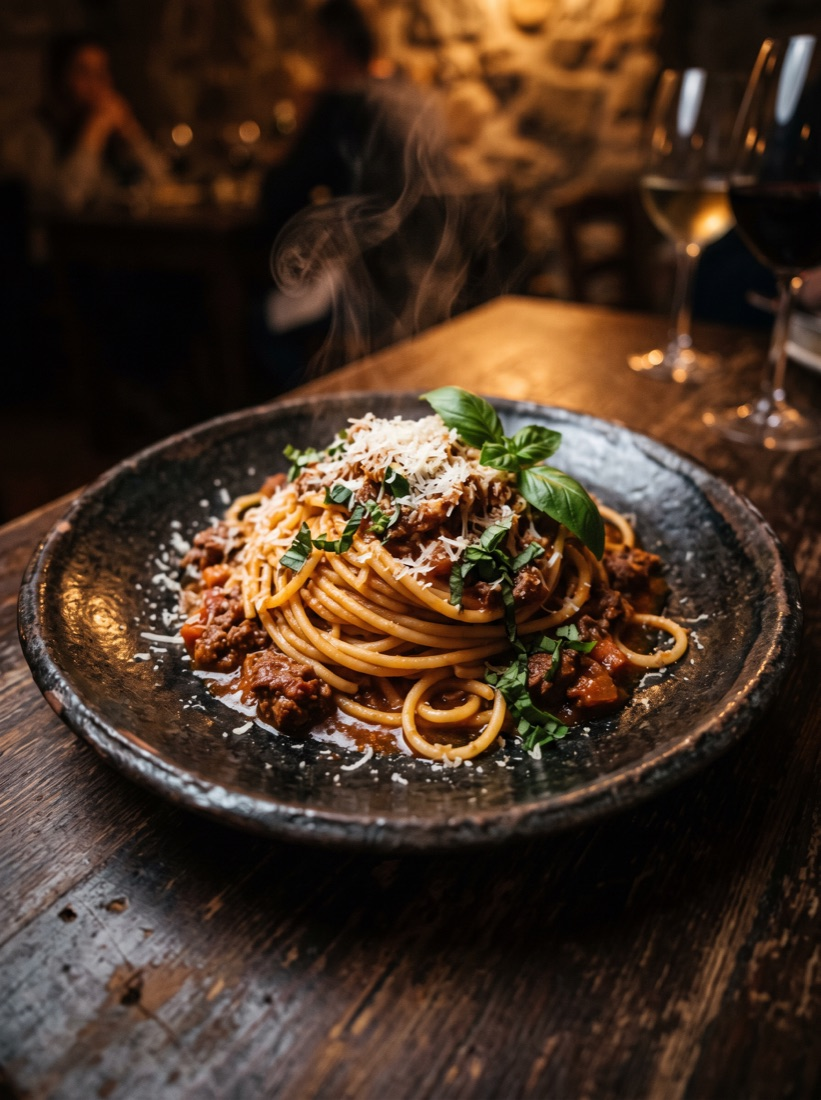
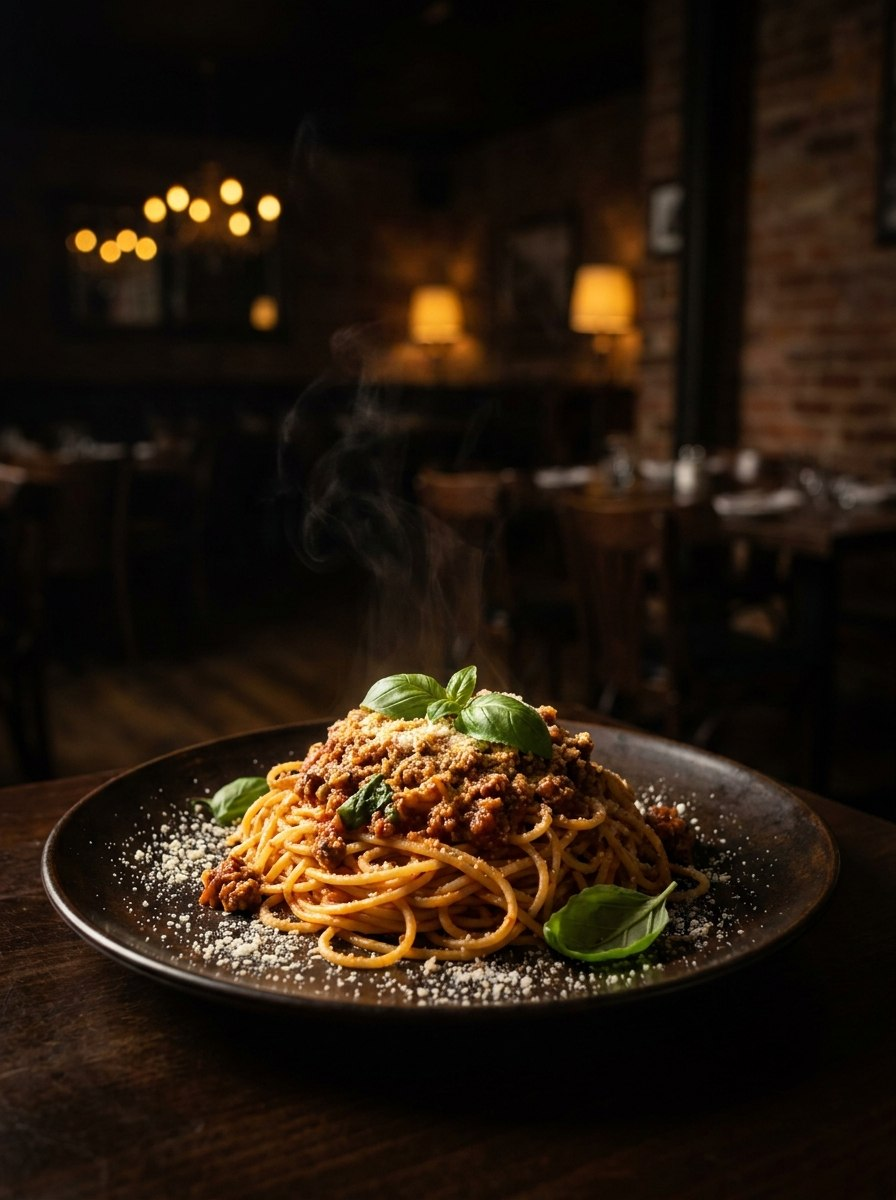
Remove the Über-uns section entirely; regenerate Nudeln highlight photo without people
- Deleted #geschichte (Über uns) section, its nav link, and the now-
  dead .story/.values-grid/.value-card CSS. Page flow is now Hero ->
  promo -> Unsere Kreation -> Vier Wege zum Glück -> Speisekarte ->
  Bewertungen -> Info -> closing CTA
- Regenerated the Nudeln highlight-card photo (pizzeria-07.jpeg) to
  remove the people visible in the blurred restaurant background,
  keeping the same moody editorial style
- The matching Döner highlight photo fix is still pending — image
  generation is out of credits on the current plan, will redo once
  credits are available

diff --git a/index.html b/index.html
@@ -38,7 +38,6 @@
   <div class="topbar-actions">
     <nav class="topbar-nav">
       <ul class="navlinks" id="navlinks">
-        <li><a href="#geschichte"><svg class="nav-icon" viewBox="0 0 24 24" fill="none" stroke="currentColor" stroke-width="2" stroke-linecap="round" stroke-linejoin="round" aria-hidden="true"><circle cx="12" cy="8" r="4"/><path d="M4 21c0-4.4 3.6-8 8-8s8 3.6 8 8"/></svg>Über uns</a></li>
         <li><a href="#speisekarte"><svg class="nav-icon" viewBox="0 0 24 24" fill="none" stroke="currentColor" stroke-width="2" stroke-linecap="round" stroke-linejoin="round" aria-hidden="true"><path d="M6 2v20M6 2c-2 0-2 3-2 5s0 5 2 5M6 2c2 0 2 3 2 5s0 5-2 5"/><path d="M18 2v8a2 2 0 0 1-2 2 2 2 0 0 1-2-2V2M16 2v20M18 12v10"/></svg>Speisekarte</a></li>
         <li><a href="#bewertungen"><svg class="nav-icon" viewBox="0 0 24 24" fill="none" stroke="currentColor" stroke-width="2" stroke-linecap="round" stroke-linejoin="round" aria-hidden="true"><polygon points="12 2 15.09 8.26 22 9.27 17 14.14 18.18 21.02 12 17.77 5.82 21.02 7 14.14 2 9.27 8.91 8.26 12 2"/></svg>Bewertungen</a></li>
         <li><a href="#info"><svg class="nav-icon" viewBox="0 0 24 24" fill="none" stroke="currentColor" stroke-width="2" stroke-linecap="round" stroke-linejoin="round" aria-hidden="true"><circle cx="12" cy="12" r="9"/><path d="M12 7v5l3 3"/></svg>Öffnungszeiten</a></li>
@@ -119,45 +118,6 @@
     </div>
   </div>
 
-  <section id="geschichte">
-    <div class="section-inner story">
-      <div class="story-text">
-        <span class="eyebrow">Über uns</span>
-        <h2 class="display">Dönerladen mit Herz,<br>seit Jahren<br>in Sibbesse.</h2>
-        <p>Frisch vom Spieß, mit eigenen Soßen — dazu Pizza, Pide, Nudeln und Schnitzel aus einer Küche, alles ehrlich gemacht.</p>
-        <div class="values-grid">
-          <div class="value-card">
-            <div class="value-icon">
-              <svg viewBox="0 0 24 24" fill="none" stroke="currentColor" stroke-width="2" stroke-linecap="round" stroke-linejoin="round" aria-hidden="true"><line x1="12" y1="2" x2="12" y2="22"/><ellipse cx="12" cy="12" rx="6" ry="9"/></svg>
-            </div>
-            <h3>Döner vom Spieß</h3>
-            <p>Frisch geschnitten, nie vorgefertigt.</p>
-          </div>
-          <div class="value-card">
-            <div class="value-icon">
-              <svg viewBox="0 0 24 24" fill="none" stroke="currentColor" stroke-width="2" stroke-linecap="round" stroke-linejoin="round" aria-hidden="true"><path d="M12 2.69l5.66 5.66a8 8 0 1 1-11.31 0z"/></svg>
-            </div>
-            <h3>Eigene Soßen</h3>
-            <p>Selbst gemacht, nicht aus der Flasche.</p>
-          </div>
-          <div class="value-card">
-            <div class="value-icon">
-              <svg viewBox="0 0 24 24" fill="none" stroke="currentColor" stroke-width="2" stroke-linecap="round" stroke-linejoin="round" aria-hidden="true"><path d="M8.5 14.5A2.5 2.5 0 0 0 11 17a2.5 2.5 0 0 0 2.5-2.5c0-1.38-.5-2-1-3-1.072-2.143-.224-4.054 2-6 .5 2.5 2 4.9 4 6.5 2 1.6 3 3.5 3 5.5a7.5 7.5 0 1 1-15 0c0-1.153.433-2.294 1-3 1.464-1.83 2.9-2.5 2.9-2.5"/></svg>
-            </div>
-            <h3>Holzofen-Pizza</h3>
-            <p>Dünner Boden, ordentlich Käse.</p>
-          </div>
-          <div class="value-card">
-            <div class="value-icon">
-              <svg viewBox="0 0 24 24" fill="none" stroke="currentColor" stroke-width="2" stroke-linecap="round" stroke-linejoin="round" aria-hidden="true"><path d="M13 2L3 14h9l-1 8 10-12h-9l1-8z"/></svg>
-            </div>
-            <h3>Schnell geliefert</h3>
-            <p>Firmen &amp; Feuerwehr sogar kostenfrei.</p>
-          </div>
-        </div>
-      </div>
-    </div>
-  </section>
 
   <section class="signature" aria-label="Unsere Kreation">
     <div class="signature-media reveal">

diff --git a/css/style.css b/css/style.css
@@ -789,50 +789,6 @@
     box-shadow:0 6px 14px -6px rgba(232,85,31,.7);
   }
 
-  /* ---------- story ---------- */
-  .story{
-    max-width:46rem;
-    margin:0 auto;
-    text-align:center;
-  }
-  .story-text p{color:var(--ink-dim);font-size:1.02rem;max-width:36rem;margin-left:auto;margin-right:auto;}
-  .values-grid{
-    display:grid;
-    grid-template-columns:repeat(2,1fr);
-    gap:1rem;
-    margin-top:1.8rem;
-    text-align:left;
-  }
-  .value-card{
-    background:var(--bg-1);
-    border:1px solid var(--line);
-    border-radius:8px;
-    padding:1.4rem;
-    transition:border-color .2s, transform .2s;
-  }
-  .value-card:hover{border-color:var(--ember);transform:translateY(-2px);}
-  .value-icon{
-    width:44px;height:44px;
-    border-radius:50%;
-    display:flex;align-items:center;justify-content:center;
-    background:var(--bg-2);
-    border:1px solid var(--line);
-    color:var(--ember);
-    margin-bottom:.9rem;
-  }
-  .value-icon svg{width:20px;height:20px;display:block;}
-  .value-card h3{
-    margin:0 0 .35rem;
-    font-family:'Anton';
-    font-size:1.02rem;
-    letter-spacing:.01em;
-    text-transform:uppercase;
-    color:var(--ink);
-  }
-  .value-card p{margin:0;color:var(--ink-dim);font-size:.85rem;line-height:1.5;}
-  @media (max-width:480px){
-    .values-grid{grid-template-columns:1fr;}
-  }
   /* ---------- highlight gallery ---------- */
   .highlights{
     display:grid;
